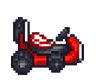
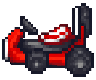
Use transparent parked go-cart asset

diff --git a/village/assets/go-cart-parked-987d64a6.html b/village/assets/go-cart-parked-987d64a6.html
@@ -23,6 +23,6 @@
   </style>
 </head>
 <body>
-  <img src="./go-cart-parked.png" alt="">
+  <img src="./go-cart-parked.png?v=transparent-cart-20260517" alt="">
 </body>
 </html>

diff --git a/village/go-cart-parked.html b/village/go-cart-parked.html
@@ -23,6 +23,6 @@
   </style>
 </head>
 <body>
-  <img src="./go-cart-parked.png" alt="">
+  <img src="./go-cart-parked.png?v=transparent-cart-20260517" alt="">
 </body>
 </html>
